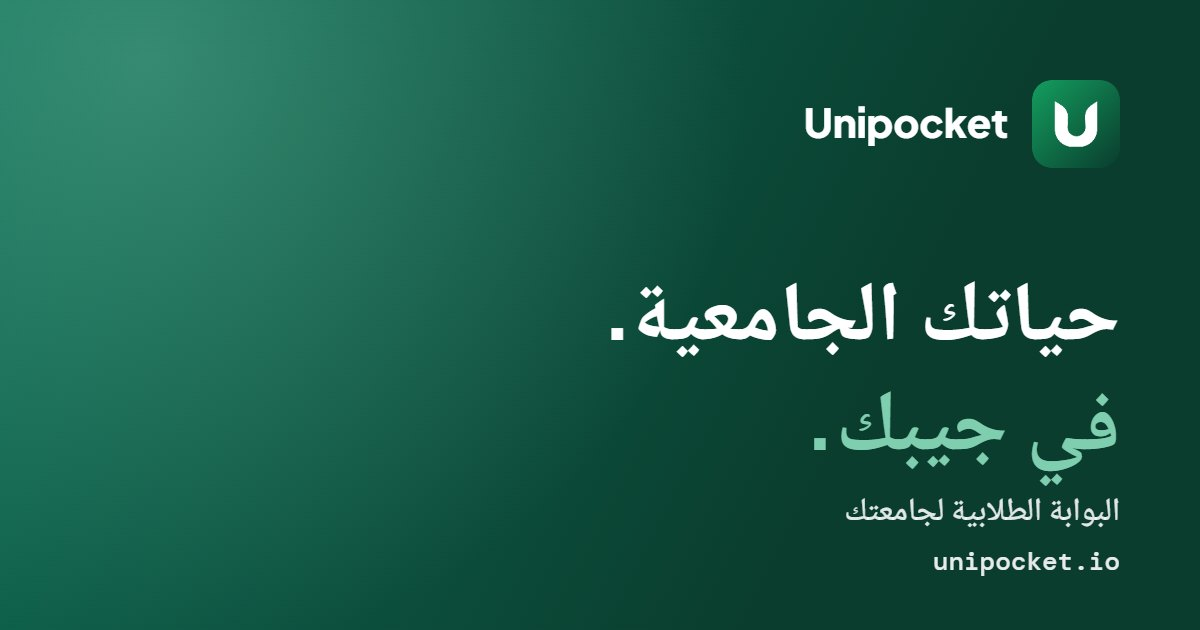
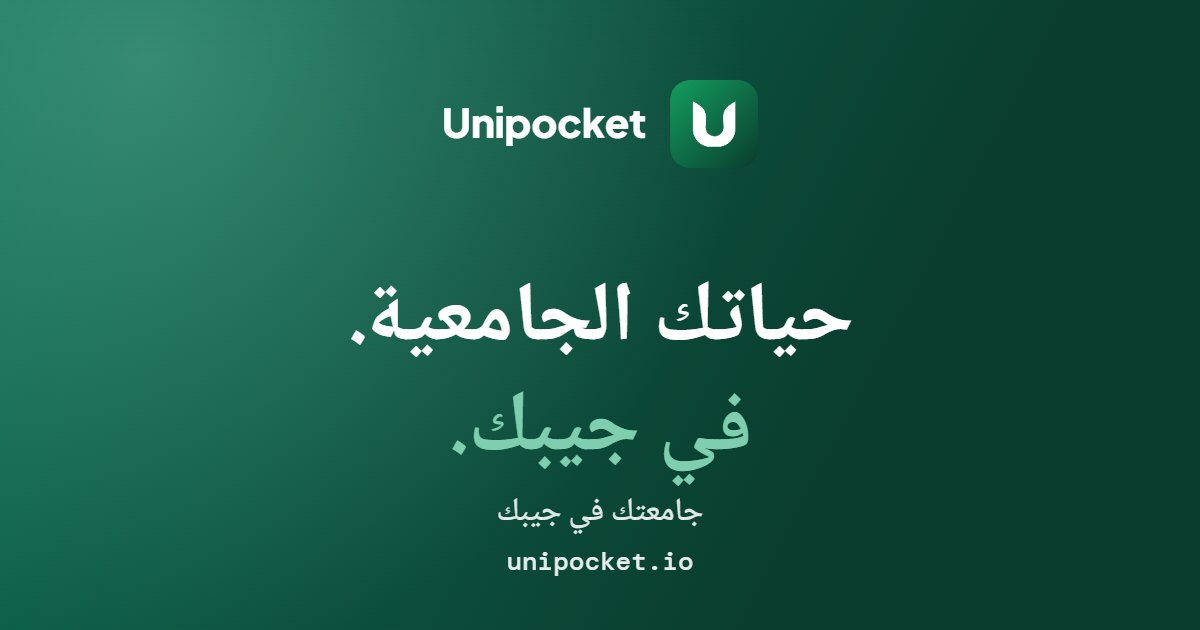
Landing: new share images and text, fix damaged French

diff --git a/landing/index.html b/landing/index.html
@@ -4,10 +4,10 @@
 <meta charset="utf-8">
 <meta name="viewport" content="width=device-width, initial-scale=1, viewport-fit=cover">
 <title>Unipocket — Ton université dans ta poche</title>
-<meta name="description" content="Emploi du temps, notes, présences, actualités et carte étudiante QR de l'Portail étudiant. Application mobile et site étudiant, en français et en arabe, même hors-ligne.">
+<meta name="description" content="Emploi du temps, notes, présences, actualités et carte étudiante QR. Application mobile et site étudiant pour toutes les universités, en français et en arabe, même hors-ligne.">
 <meta name="theme-color" content="#1D9E75">
-<meta property="og:title" content="Unipocket — Ta vie étudiante, dans ta poche">
-<meta property="og:description" content="Ton université dans ta poche. Bilingue FR · AR, fonctionne hors-ligne.">
+<meta property="og:title" content="Unipocket — Ton université dans ta poche">
+<meta property="og:description" content="Emploi du temps, notes, carte étudiante et actualités. Bilingue FR · AR, fonctionne hors-ligne.">
 <meta property="og:type" content="website">
 <meta property="og:url" content="https://unipocket.io/">
 <meta property="og:image" content="https://unipocket.io/assets/images/share-fr-1200x630.jpg">
@@ -70,7 +70,7 @@
 <div class="container hero-copy" id="main">
 <span class="pill"><b data-i18n="pillNew">Nouveau</b> <span data-i18n="pillText">Ton université dans ta poche</span></span>
 <h1><span data-i18n="h1a">Ta vie étudiante.</span><br><span class="accent" data-i18n="h1b">Dans ta poche.</span></h1>
-<p class="lead" data-i18n="lead">Emploi du temps, notes, présences, actualités et carte étudiante de l'Portail étudiant — sur ton téléphone ou sur le web, en français et en arabe, même sans connexion.</p>
+<p class="lead" data-i18n="lead">Emploi du temps, notes, présences, actualités et carte étudiante de ton université — sur ton téléphone ou sur le web, en français et en arabe, même sans connexion.</p>
 <div class="store-row" id="heroStores">
 <a class="store-btn" data-link="googlePlay" href="#"><svg class="i" aria-hidden="true" focusable="false"><use href="#i-play"></use></svg><span><small data-i18n="getOn">Disponible sur</small><strong>Google Play</strong></span></a>
 <a class="store-btn apk" data-link="apk" href="#"><svg class="i" aria-hidden="true" focusable="false"><use href="#i-download"></use></svg><span><small data-i18n="directDl">Téléchargement direct</small><strong data-i18n="apkLabel">Fichier APK</strong></span></a>
@@ -135,7 +135,7 @@
 <!-- PILLARS -->
 <section class="strip" data-screen-label="Piliers">
 <div class="container">
-<h2 data-i18n="stripTitle">Pensée pour les étudiants de l'Portail étudiant</h2>
+<h2 data-i18n="stripTitle">Pensée pour les étudiants, quelle que soit leur université</h2>
 <div class="pillars">
 <div class="pillar"><span class="ic"><svg class="i" aria-hidden="true" focusable="false"><use href="#i-wifi-off"></use></svg></span><span data-i18n="p1">Fonctionne hors-ligne</span></div>
 <div class="pillar"><span class="ic"><svg class="i" aria-hidden="true" focusable="false"><use href="#i-globe"></use></svg></span><span data-i18n="p2">Français &amp; Arabe</span></div>
@@ -151,7 +151,7 @@
 <div class="sec-title reveal">
 <span class="eyebrow" data-i18n="whatEyebrow">Qu'est-ce que Unipocket ?</span>
 <h2><span data-i18n="whatH2a">Un seul portail,</span> <span class="accent" data-i18n="whatH2b">trois façons d'y accéder</span></h2>
-<p data-i18n="whatLead">Unipocket réunit au même endroit tout ce que l'Portail étudiant partage avec ses étudiants. Les mêmes informations, à jour, sur chaque écran.</p>
+<p data-i18n="whatLead">Unipocket réunit au même endroit tout ce que ton université partage avec ses étudiants. Les mêmes informations, à jour, sur chaque écran.</p>
 </div>
 <div class="trio">
 <article class="card reveal">
@@ -427,7 +427,7 @@
 <div class="container">
 <div class="sec-title reveal"><span class="eyebrow" data-i18n="navFaq">FAQ</span><h2 data-i18n="faqH2">Questions fréquentes</h2></div>
 <div class="faq">
-<details><summary data-i18n="q1">L'application est-elle gratuite ?</summary><p data-i18n="a1">Oui. Unipocket est entièrement gratuite pour tous les étudiants de l'Portail étudiant, sans publicité.</p></details>
+<details><summary data-i18n="q1">L'application est-elle gratuite ?</summary><p data-i18n="a1">Oui. Unipocket est entièrement gratuite pour les étudiants, sans publicité.</p></details>
 <details><summary data-i18n="q2">Quels identifiants dois-je utiliser ?</summary><p data-i18n="a2">Ton numéro étudiant et ton mot de passe universitaire. Après 3 essais incorrects, le compte est bloqué 5 minutes par sécurité. En cas d'oubli, adresse-toi à la scolarité.</p></details>
 <details><summary data-i18n="q3">Est-ce que ça marche sans internet ?</summary><p data-i18n="a3">Oui. Emploi du temps, notes, carte QR, présences et centre d'information restent disponibles hors-ligne. Seules les actions qui nécessitent un envoi (justificatifs, par exemple) attendent le retour du réseau, puis partent automatiquement.</p></details>
 <details><summary data-i18n="q7">Puis-je utiliser Unipocket sur ordinateur ?</summary><p data-i18n="a7">Oui. Le site étudiant donne accès aux mêmes informations, avec le même compte, depuis n'importe quel navigateur.</p></details>
@@ -463,7 +463,7 @@
 <div class="foot">
 <div>
 <a href="#top" class="brand"><span class="brand-mark"><img src="assets/brand/unipocket-icon.svg" alt="" width="34" height="34"></span><span>Unipocket</span></a>
-<p data-i18n="footAbout2">Le portail étudiant de l'Portail étudiant : application mobile, site étudiant et portail d'administration. En français et en arabe.</p>
+<p data-i18n="footAbout2">Le portail étudiant pour toutes les universités : application mobile, site étudiant et portail d'administration. En français et en arabe.</p>
 </div>
 <div><h5 data-i18n="footApp">Application</h5><ul>
 <li><a href="#fonctionnalites" data-i18n="navFeatures">Fonctionnalités</a></li>

diff --git a/landing/i18n/strings.js b/landing/i18n/strings.js
@@ -263,8 +263,8 @@ window.UNIPOCKET_STRINGS = {
     "toast.linkSoon": "Lien bientôt disponible",
     "meta.home.title": "Unipocket — Ton université dans ta poche",
     "meta.home.description": "Emploi du temps, notes, présences, actualités et carte étudiante QR. Application mobile et site étudiant pour toutes les universités, en français et en arabe, même hors-ligne.",
-    "meta.home.shareTitle": "Unipocket — Ta vie étudiante, dans ta poche",
-    "meta.home.shareDescription": "Ton université dans ta poche. Bilingue FR · AR, fonctionne hors-ligne.",
+    "meta.home.shareTitle": "Unipocket — Ton université dans ta poche",
+    "meta.home.shareDescription": "Emploi du temps, notes, carte étudiante et actualités. Bilingue FR · AR, fonctionne hors-ligne.",
     "meta.404.title": "Page introuvable — Unipocket",
     "meta.404.description": "Cette page n'existe pas ou a été déplacée.",
     "meta.privacy.title": "Politique de confidentialité — Unipocket",
@@ -531,8 +531,8 @@ window.UNIPOCKET_STRINGS = {
     "toast.linkSoon": "الرابط سيتوفر قريباً",
     "meta.home.title": "Unipocket — جامعتك في جيبك", // ⚠ new tagline, needs native proofreading
     "meta.home.description": "الجدول الدراسي، النتائج، الحضور، الأخبار والبطاقة الطلابية QR. تطبيق للهاتف وموقع طلابي لكل الجامعات، بالعربية والفرنسية، حتى بدون اتصال.",
-    "meta.home.shareTitle": "Unipocket — حياتك الجامعية في جيبك",
-    "meta.home.shareDescription": "جامعتك في جيبك. بالعربية والفرنسية، ويعمل بدون إنترنت.", // ⚠ new tagline, needs native proofreading
+    "meta.home.shareTitle": "Unipocket — جامعتك في جيبك", // ⚠ new share text, needs native proofreading
+    "meta.home.shareDescription": "الجدول الدراسي، النتائج، البطاقة الطلابية والأخبار. بالعربية والفرنسية، ويعمل بدون إنترنت.", // ⚠ new share text, needs native proofreading
     "meta.404.title": "الصفحة غير موجودة — Unipocket",
     "meta.404.description": "هذه الصفحة غير موجودة أو تم نقلها.",
     "meta.privacy.title": "سياسة الخصوصية — Unipocket",

diff --git a/landing/privacy.html b/landing/privacy.html
@@ -4,7 +4,7 @@
 <meta charset="utf-8">
 <meta name="viewport" content="width=device-width, initial-scale=1, viewport-fit=cover">
 <title>Politique de confidentialité — Unipocket</title>
-<meta name="description" content="Politique de confidentialité de Unipocket, le portail étudiant de l’Portail étudiant.">
+<meta name="description" content="Politique de confidentialité de Unipocket, le portail étudiant pour toutes les universités.">
 <link rel="canonical" href="https://unipocket.io/privacy.html">
 <meta name="theme-color" content="#1D9E75">
 <link rel="icon" href="assets/favicons/favicon.svg" type="image/svg+xml">

diff --git a/landing/terms.html b/landing/terms.html
@@ -4,7 +4,7 @@
 <meta charset="utf-8">
 <meta name="viewport" content="width=device-width, initial-scale=1, viewport-fit=cover">
 <title>Conditions d'utilisation — Unipocket</title>
-<meta name="description" content="Conditions d'utilisation de Unipocket, le portail étudiant de l’Portail étudiant.">
+<meta name="description" content="Conditions d'utilisation de Unipocket, le portail étudiant pour toutes les universités.">
 <link rel="canonical" href="https://unipocket.io/terms.html">
 <meta name="theme-color" content="#1D9E75">
 <link rel="icon" href="assets/favicons/favicon.svg" type="image/svg+xml">

diff --git a/design/landing-handoff/DESIGN-SPEC.md b/design/landing-handoff/DESIGN-SPEC.md
@@ -320,7 +320,7 @@ The menu (2 bars → X), the FAQ "+" and the status dots are drawn in CSS, not i
 - `assets/brand/unipocket-mark.svg` / `-mark-white.svg`: the U alone (jade-600 / white).
 - `assets/brand/unipocket-logo.svg` / `-logo-white.svg`: icon + "Unipocket" wordmark in Plus Jakarta Sans 800, converted to outlines. `unipocket-logo-512.png` (512×109).
 - `assets/favicons/`: `favicon.svg`, `favicon-16.png`, `favicon-32.png`, `apple-touch-icon-180.png` (square, iOS applies the mask), `icon-192.png` and `icon-512.png` (rounded, `purpose: any`), `icon-512-maskable.png` (full bleed; the U sits inside the 80% safe zone).
-- Share images: `assets/images/share-fr-1200x630.jpg` (referenced by `og:image`) and `share-ar-1200x630.jpg` (for the Arabic page once it exists; open question 4).
+- Share images: `assets/images/share-fr-1200x630.jpg` (referenced by `og:image`) and `share-ar-1200x630.jpg` (for the Arabic page once it exists; open question 4). Both show the logo, the headline "Ta vie étudiante. Dans ta poche." and the tagline ("Ton université dans ta poche" / "جامعتك في جيبك"). They are cached for 30 days by `_headers`, so after launch a changed image needs a new file name.
 - `assets/images/qr-download-unipocket-io.svg`: real, scannable QR (version 2, level M, 4-module quiet zone), jade-900 on white.
 
 ---
@@ -427,10 +427,10 @@ All text lives in `i18n/strings.js`. French is also written directly in the HTML
 |---|---|---|
 | Title | Unipocket — Ton université dans ta poche | Unipocket — جامعتك في جيبك |
 | Description | Emploi du temps, notes, présences, actualités et carte étudiante QR. Application mobile et site étudiant pour toutes les universités, en français et en arabe, même hors-ligne. | الجدول الدراسي، النتائج، الحضور، الأخبار والبطاقة الطلابية QR. تطبيق للهاتف وموقع طلابي لكل الجامعات، بالعربية والفرنسية، حتى بدون اتصال. |
-| Share title (og) | Unipocket — Ta vie étudiante, dans ta poche | Unipocket — حياتك الجامعية في جيبك |
-| Share text (og) | Ton université dans ta poche. Bilingue FR · AR, fonctionne hors-ligne. | جامعتك في جيبك. بالعربية والفرنسية، ويعمل بدون إنترنت. |
+| Share title (og) | Unipocket — Ton université dans ta poche | Unipocket — جامعتك في جيبك |
+| Share text (og) | Emploi du temps, notes, carte étudiante et actualités. Bilingue FR · AR, fonctionne hors-ligne. | الجدول الدراسي، النتائج، البطاقة الطلابية والأخبار. بالعربية والفرنسية، ويعمل بدون إنترنت. |
 
-Tagline (pill, title, share text): **"Ton université dans ta poche"** / **"جامعتك في جيبك"** ⚠ (Arabic not yet proofread). It replaced "Le portail étudiant de ton université".
+Tagline (pill, title, share title): **"Ton université dans ta poche"** / **"جامعتك في جيبك"** ⚠ (Arabic not yet proofread). It replaced "Le portail étudiant de ton université".
 
 `og:*` tags are static French in `index.html` (crawlers don't run JS). The Arabic values are ready for the `/ar/` page (open question 4).
 
@@ -695,8 +695,8 @@ Tagline (pill, title, share text): **"Ton université dans ta poche"** / **"جا
 | `toast.linkSoon` | Lien bientôt disponible | الرابط سيتوفر قريباً | ⚠ |
 | `meta.home.title` | Unipocket — Ton université dans ta poche | Unipocket — جامعتك في جيبك | ⚠ |
 | `meta.home.description` | Emploi du temps, notes, présences, actualités et carte étudiante QR. Application mobile et site étudiant pour toutes les universités, en français et en arabe, même hors-ligne. | الجدول الدراسي، النتائج، الحضور، الأخبار والبطاقة الطلابية QR. تطبيق للهاتف وموقع طلابي لكل الجامعات، بالعربية والفرنسية، حتى بدون اتصال. | ⚠ |
-| `meta.home.shareTitle` | Unipocket — Ta vie étudiante, dans ta poche | Unipocket — حياتك الجامعية في جيبك | ⚠ |
-| `meta.home.shareDescription` | Ton université dans ta poche. Bilingue FR · AR, fonctionne hors-ligne. | جامعتك في جيبك. بالعربية والفرنسية، ويعمل بدون إنترنت. | ⚠ |
+| `meta.home.shareTitle` | Unipocket — Ton université dans ta poche | Unipocket — جامعتك في جيبك | ⚠ |
+| `meta.home.shareDescription` | Emploi du temps, notes, carte étudiante et actualités. Bilingue FR · AR, fonctionne hors-ligne. | الجدول الدراسي، النتائج، البطاقة الطلابية والأخبار. بالعربية والفرنسية، ويعمل بدون إنترنت. | ⚠ |
 | `meta.404.title` | Page introuvable — Unipocket | الصفحة غير موجودة — Unipocket | ⚠ |
 | `meta.404.description` | Cette page n'existe pas ou a été déplacée. | هذه الصفحة غير موجودة أو تم نقلها. | ⚠ |
 | `meta.privacy.title` | Politique de confidentialité — Unipocket | سياسة الخصوصية — Unipocket | ⚠ |
